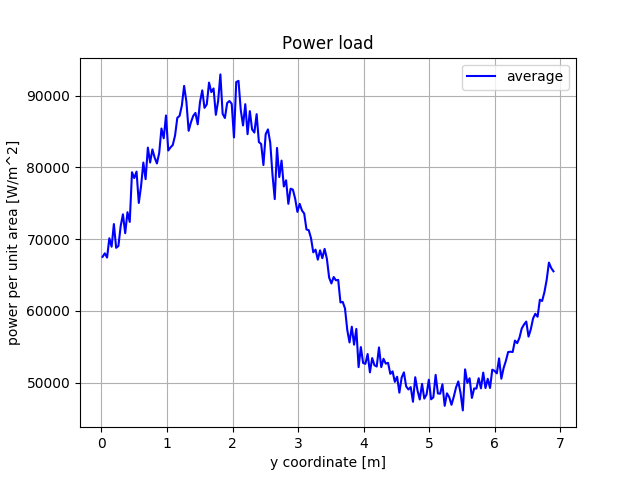
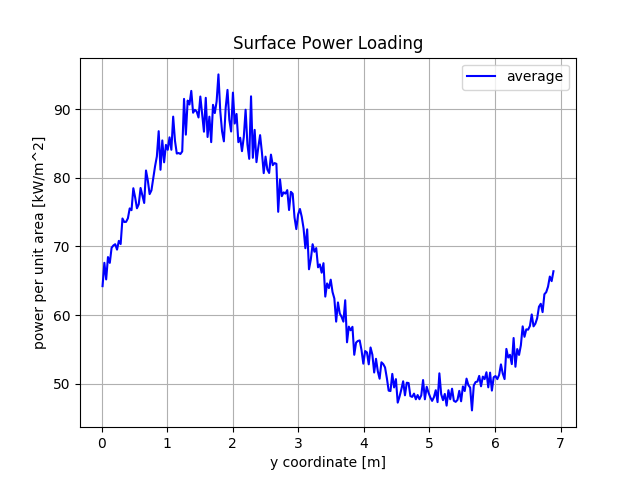
More improvements to tutorials on calculating wall surface radiation loads (#111).

diff --git a/demos/radiation_loads/symmetric_power_load.py b/demos/radiation_loads/symmetric_power_load.py
@@ -1,33 +1,42 @@
 
 import numpy as np
 import matplotlib.pyplot as plt
-from scipy.spatial import Delaunay
+
 from raysect.core import Point2D, Point3D, translate, Vector3D, rotate_basis
-from raysect.core.math import Interpolator2DMesh
 from raysect.optical import World, Spectrum
 from raysect.primitive import Cylinder
-from raysect.optical.observer import PinholeCamera, PowerPipeline2D
+from raysect.optical.observer import PowerPipeline0D
+from raysect.optical.observer.nonimaging.pixel import Pixel
+from raysect.optical.material import AbsorbingSurface
 
 from cherab.core.math import sample2d, AxisymmetricMapper
 from cherab.tools.emitters import RadiationFunction
+from cherab.tools.primitives import axisymmetric_mesh_from_polygon
 
 
 #############################
 # define radiation function #
 
 PLASMA_AXIS = Point2D(1.5, 0)
+PLASMA_AXIS_3D = Point3D(PLASMA_AXIS.x, 0.0, PLASMA_AXIS.y)  # convert the plasma_axis in a 3D point
 LCFS_RADIUS = 1
 RING_RADIUS = 0.5
 
-RADIATION_PEAK = 1
+RADIATION_PEAK = 1e6
 CENTRE_PEAK_WIDTH = 0.05
 RING_WIDTH = 0.025
 
 # distance of wall from LCFS
 WALL_LCFS_OFFSET = 0.1
 
+# distance of detector pixels from wall
+# slightly displaced to avoid numerical overlap (ray trapping)
+WALL_DETECTOR_OFFSET = 0.001
+
 CYLINDER_RADIUS = PLASMA_AXIS.x + LCFS_RADIUS + WALL_LCFS_OFFSET * 1.1
 CYLINDER_HEIGHT = (LCFS_RADIUS + WALL_LCFS_OFFSET) * 2
+WALL_RADIUS = LCFS_RADIUS + WALL_LCFS_OFFSET
+DETECTOR_RADIUS = WALL_RADIUS - WALL_DETECTOR_OFFSET
 
 
 def rad_function(r, z):
@@ -63,13 +72,37 @@ geom = Cylinder(CYLINDER_RADIUS, CYLINDER_HEIGHT,
                 transform=translate(0, 0, -1), parent=world, material=radiation_emitter)
 
 
+############################################
+# make a toroidal wall wrapping the plasma #
+
+# number of poloidal wall elements
+n_poloidal = 250
+d_angle = (2*np.pi) / n_poloidal
+
+wall_polygon = np.zeros((n_poloidal, 2))
+for i in range(n_poloidal):
+    pr = PLASMA_AXIS.x + WALL_RADIUS * np.sin(d_angle * i)
+    pz = PLASMA_AXIS.y + WALL_RADIUS * np.cos(d_angle * i)
+    wall_polygon[i, :] = pr, pz
+wall_polygon = wall_polygon[::-1]  # make surface normals point inwards
+
+# create a 3D mesh from the 2D polygon outline using symmetry
+wall_mesh = axisymmetric_mesh_from_polygon(wall_polygon)
+wall_mesh.parent = world
+wall_mesh.material = AbsorbingSurface()
 
 
+###################################################
+# make detectors wrapping a slice of wall surface #
 
-######################
-# visualise emission #
+# toroidal width of the detectors
+X_WIDTH = 0.01
 
-# run some plots to check the distribution functions and emission profile are as expected
+# intialization of the initial angle
+d_angle = (2*np.pi) / n_poloidal
+
+# visualise emission adn detectors
+plt.figure()
 r, z, t_samples = sample2d(rad_function, (0, 4, 200), (-2, 2, 200))
 plt.imshow(np.transpose(np.squeeze(t_samples)), extent=[0, 4, -2, 2])
 plt.colorbar()
@@ -78,15 +111,130 @@ plt.xlabel('r axis')
 plt.ylabel('z axis')
 plt.title("Radiation profile in r-z plane")
 
+wall_detectors = []
+for index in range(1, n_poloidal + 1):
 
-camera = PinholeCamera((256, 256), pipelines=[PowerPipeline2D()], parent=world)
-camera.transform = translate(-3.5, -2.5, 0)*rotate_basis(Vector3D(1, 0, 0), Vector3D(0, 0, 1))
-camera.pixel_samples = 1
+    p1x = PLASMA_AXIS.x + DETECTOR_RADIUS * np.sin(d_angle * index)
+    p1y = PLASMA_AXIS.y + DETECTOR_RADIUS * np.cos(d_angle * index)
+    p1 = Point3D(p1x, 0, p1y)
 
-plt.ion()
-camera.observe()
-plt.ioff()
+    p2x = PLASMA_AXIS.x + DETECTOR_RADIUS * np.sin(d_angle * (index + 1))
+    p2y = PLASMA_AXIS.y + DETECTOR_RADIUS * np.cos(d_angle * (index + 1))
+    p2 = Point3D(p2x, 0, p2y)
+
+    # evaluate y_vector
+    y_vector_full = p1.vector_to(p2)
+    y_vector = y_vector_full.normalise()
+    y_width = y_vector_full.length
+
+    # evaluate the central point of the detector
+    detector_center = p1 + y_vector_full * 0.5
+
+    # evaluate normal_vector
+    normal_vector = (detector_center.vector_to(PLASMA_AXIS_3D)).normalise()  # inward pointing
+
+    # to populate it step by step
+    wall_detectors = wall_detectors + [((index - 1), X_WIDTH, y_width, detector_center, normal_vector, y_vector)]
+
+    plt.plot([p1x, p2x], [p1y, p2y], 'k')
+    plt.plot([p1x, p2x], [p1y, p2y], '.k')
+    pc = detector_center
+    pcn = pc + normal_vector * 0.05
+    plt.plot([pc.x, pcn.x], [pc.z, pcn.z], 'r')
+
+
+##############################################################
+# iterate through all detectors and calculate radiation load #
+
+# storage lists for results
+power_densities = []
+detector_numbers = []
+distance = []
+
+running_distance = 0
+observed_total_power = 0
+
+# loop over each tile detector
+for i, detector in enumerate(wall_detectors):
+
+    print()
+    print("detector {}".format(i))
+
+    # extract the dimensions and orientation of the tile
+    y_width = detector[2]
+    centre_point = detector[3]
+    normal_vector = detector[4]
+    y_vector = detector[5]
+    pixel_area = X_WIDTH * y_width
+
+    # Use the power pipeline to record total power arriving at the surface
+    power_data = PowerPipeline0D()
+
+    pixel_transform = translate(centre_point.x, centre_point.y, centre_point.z) * rotate_basis(normal_vector, y_vector)
+    # Use pixel_samples argument to increase amount of sampling and reduce noise
+    pixel = Pixel([power_data], x_width=X_WIDTH, y_width=y_width, name='pixel-{}'.format(i),
+                  spectral_bins=1, transform=pixel_transform, parent=world, pixel_samples=2000)
+    # make detector sensitivity 1nm so that raditation function is effectively W/m^3/str
+
+    # Start collecting samples
+    pixel.observe()
+
+    # Append the collected data to the storage lists
+    power_density = power_data.value.mean / pixel_area
+    power_densities.append(power_density)  # convert to W/m^2 !!!!!!!!!!!!!!!!!!!
+
+    detector_numbers.append(i)
+
+    running_distance += 0.5 * y_width # with Y_WIDTH instead of y_width
+    distance.append(running_distance)
+    running_distance += 0.5 * y_width # with Y_WIDTH instead of y_width
+
+    # For checking energy conservation.
+    # Revolve this tile around the CYLINDRICAL z-axis to get total power collected by these tiles.
+    # Add up all the tile contributions to get total power collected.
+    detector_radius = np.sqrt(centre_point.x**2 + centre_point.y**2)
+    observed_total_power += power_density * (y_width * 2 * np.pi * detector_radius)
+
+
+plt.figure(2)
+plt.plot(distance, np.array(power_densities)/1e3, 'b-', label='average') # average
+plt.legend()
+plt.xlabel('y coordinate [m]')
+plt.ylabel('power per unit area [kW/m^2]')
+plt.title("Surface Power Loading")
+plt.grid(True)
+
+
+########################################################################################################################
+
+# **********************************CHECK ENERGY CONSERVATION*************************************
+
+# initializations
+emitted_total_power = 0
+
+num_vertical_points = 500
+vertical_points = np.linspace(-2, 2, num_vertical_points)
+num_radial_points = 500
+radial_points = np.linspace(0, 4, num_radial_points)
+for i in range(num_radial_points - 1):
+    for j in range(num_vertical_points - 1):
+
+        p1 = Point2D(radial_points[i], vertical_points[j])
+        p2 = Point2D(radial_points[i], vertical_points[j+1])
+        p3 = Point2D(radial_points[i+1], vertical_points[j+1])
+        p4 = Point2D(radial_points[i+1], vertical_points[j])
+
+        pc = Point2D((p1.x+p2.x+p3.x+p4.x)/4, (p1.y+p2.y+p3.y+p4.y)/4)
+
+        # cell_volume = area of cell * circumference at cell radius
+        cell_volume = p1.distance_to(p2) * p1.distance_to(p4) * 2 * np.pi * pc.x
+
+        emitted_rad_data = rad_function(pc.x, pc.y)
+        emitted_total_power += emitted_rad_data * cell_volume
+
+print()
+print()
+print("Total radiated power => {:.4G} MW".format(emitted_total_power/1e6))
+print("CHERAB total detected power => {:.4G} MW".format(observed_total_power/1e6))
+
 plt.show()
-
-
-

diff --git a/demos/radiation_loads/wall_from_polygon.py b/demos/radiation_loads/wall_from_polygon.py
@@ -22,8 +22,8 @@ CYLINDER_HEIGHT = (LCFS_RADIUS + WALL_LCFS_OFFSET) * 2
 WALL_RADIUS = LCFS_RADIUS + WALL_LCFS_OFFSET
 
 
-######################################
-# make toroidal wall wrapping plasma #
+##########################################
+# make toroidal wall wrapping the plasma #
 
 # number of poloidal wall elements
 num = 250

diff --git a/demos/radiation_loads/radiation_function.py b/demos/radiation_loads/radiation_function.py
@@ -19,7 +19,7 @@ PLASMA_AXIS = Point2D(1.5, 0)
 LCFS_RADIUS = 1
 RING_RADIUS = 0.5
 
-RADIATION_PEAK = 1
+RADIATION_PEAK = 1e6
 CENTRE_PEAK_WIDTH = 0.05
 RING_WIDTH = 0.025
 

diff --git a/docs/source/demonstrations/radiation_loads/symmetric_power_load.rst b/docs/source/demonstrations/radiation_loads/symmetric_power_load.rst
@@ -22,9 +22,27 @@ constructed manually using the Raysect Pixel detector class.
 
 .. literalinclude:: ../../../../demos/radiation_loads/symmetric_power_load.py
 
+When this script is run, the output confirms power is conserved.
+
+
+    >>> python symmetric_power_load.py
+    Total radiated power => 4.848 MW
+    CHERAB total detected power => 4.844 MW
+
+.. figure:: symmetric_power_load_detectors.png
+   :align: center
+
+   **Caption:** The emission source function with the wall detector positions
+   overlaid.
+
+.. figure:: symmetric_power_load_zoomed_detectors.png
+   :align: center
+
+   **Caption:** A zoomed in view of the wall detectors (black) and their surface
+   normals (red).
+
 .. figure:: symmetric_power_load.png
    :align: center
 
    **Caption:** The power loading in MW/m^2 measured on the pixel detectors wrapping
    around the wall.
-

diff --git a/docs/source/demonstrations/demonstrations.rst b/docs/source/demonstrations/demonstrations.rst
@@ -91,7 +91,17 @@ Surface Radiation Loads
      - .. image:: ./radiation_loads/symmetric_power_load.png
           :height: 150px
           :width: 150px
-
+   * - `Mesh Observer <https://raysect.github.io/documentation/demonstrations/observers/mesh_observers.html>`_
+     - Calculating powers on an arbitrary 3D surface (Raysect docs).
+     - .. image:: https://raysect.github.io/documentation/_images/mesh_observers.jpg
+          :height: 150px
+          :width: 150px
+   * - :ref:`AUG - SOLPS radiation load example <aug_solps_radiation_load>`
+     - An older demonstration of the tutorials above using a SOLPS simulation
+       and an AUG wall outline.
+     - .. image:: ./radiation_loads/AUG_wall_outline.png
+          :height: 150px
+          :width: 150px
 
 Code examples gallery
 =====================

diff --git a/docs/source/demonstrations/radiation_loads/surface_radiation_loads.rst b/docs/source/demonstrations/radiation_loads/surface_radiation_loads.rst
@@ -1,5 +1,5 @@
 
-.. _surface_radiation_loads:
+.. _aug_solps_radiation_load:
 
 
 Calculating wall surface radiation loads
